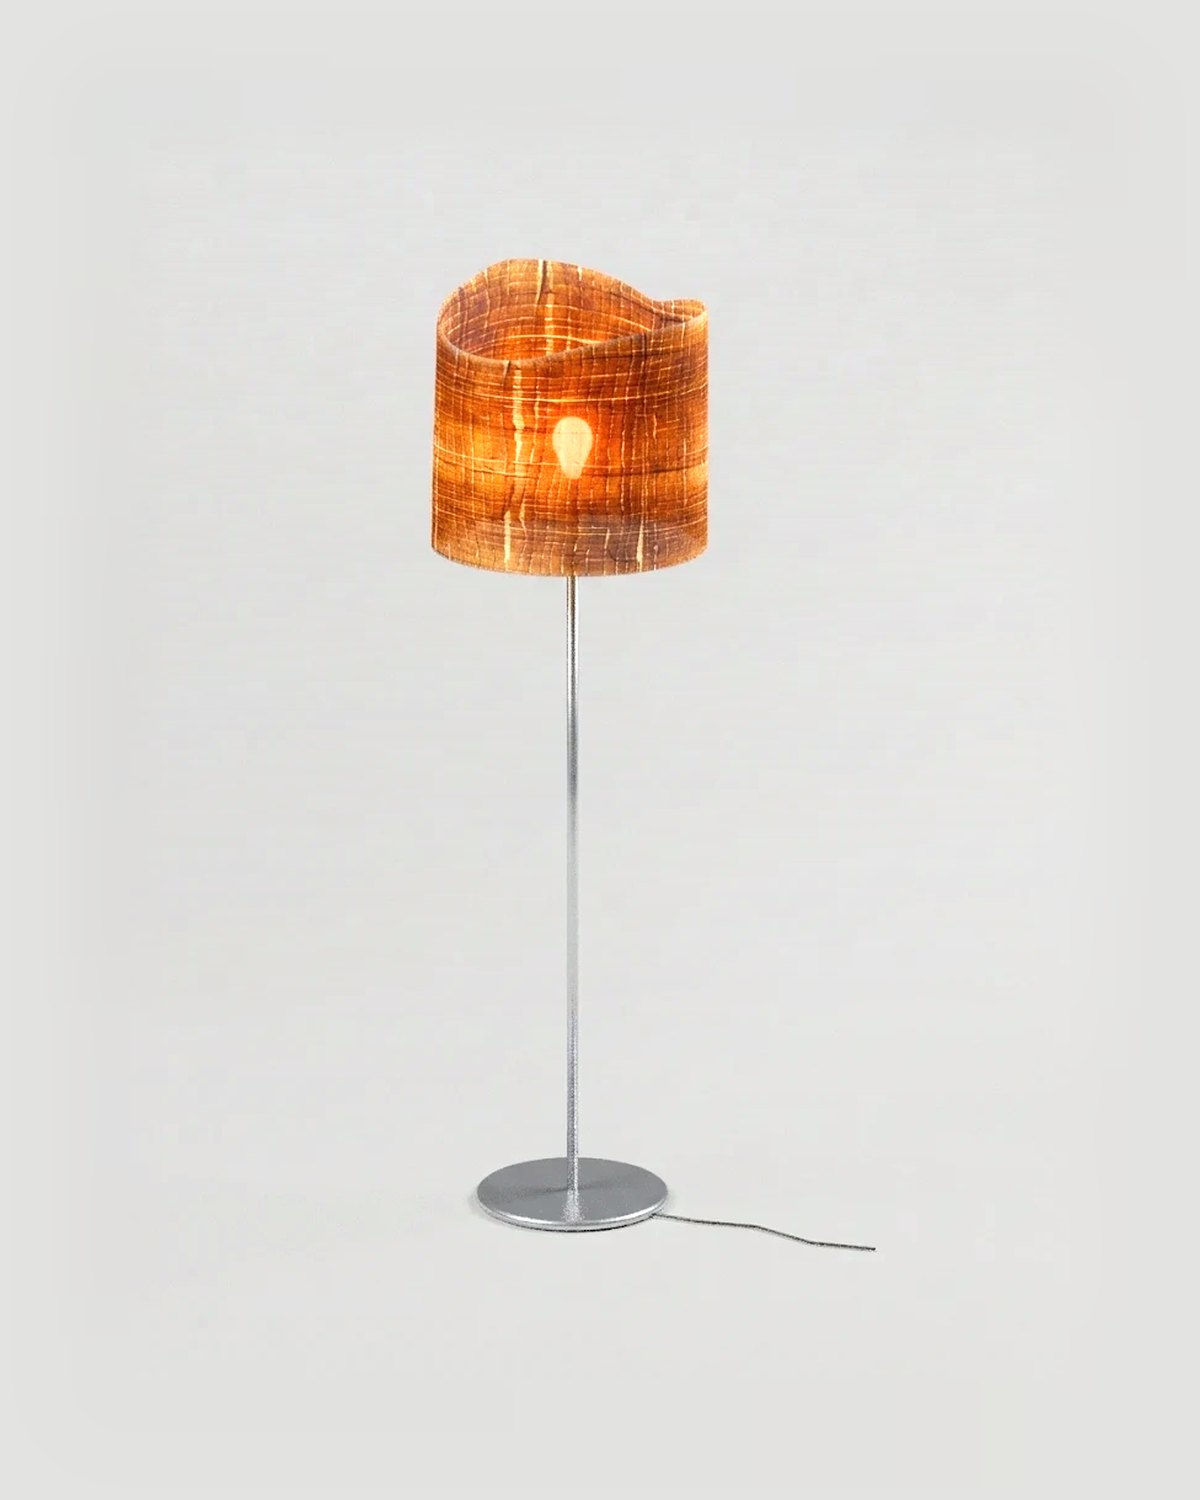
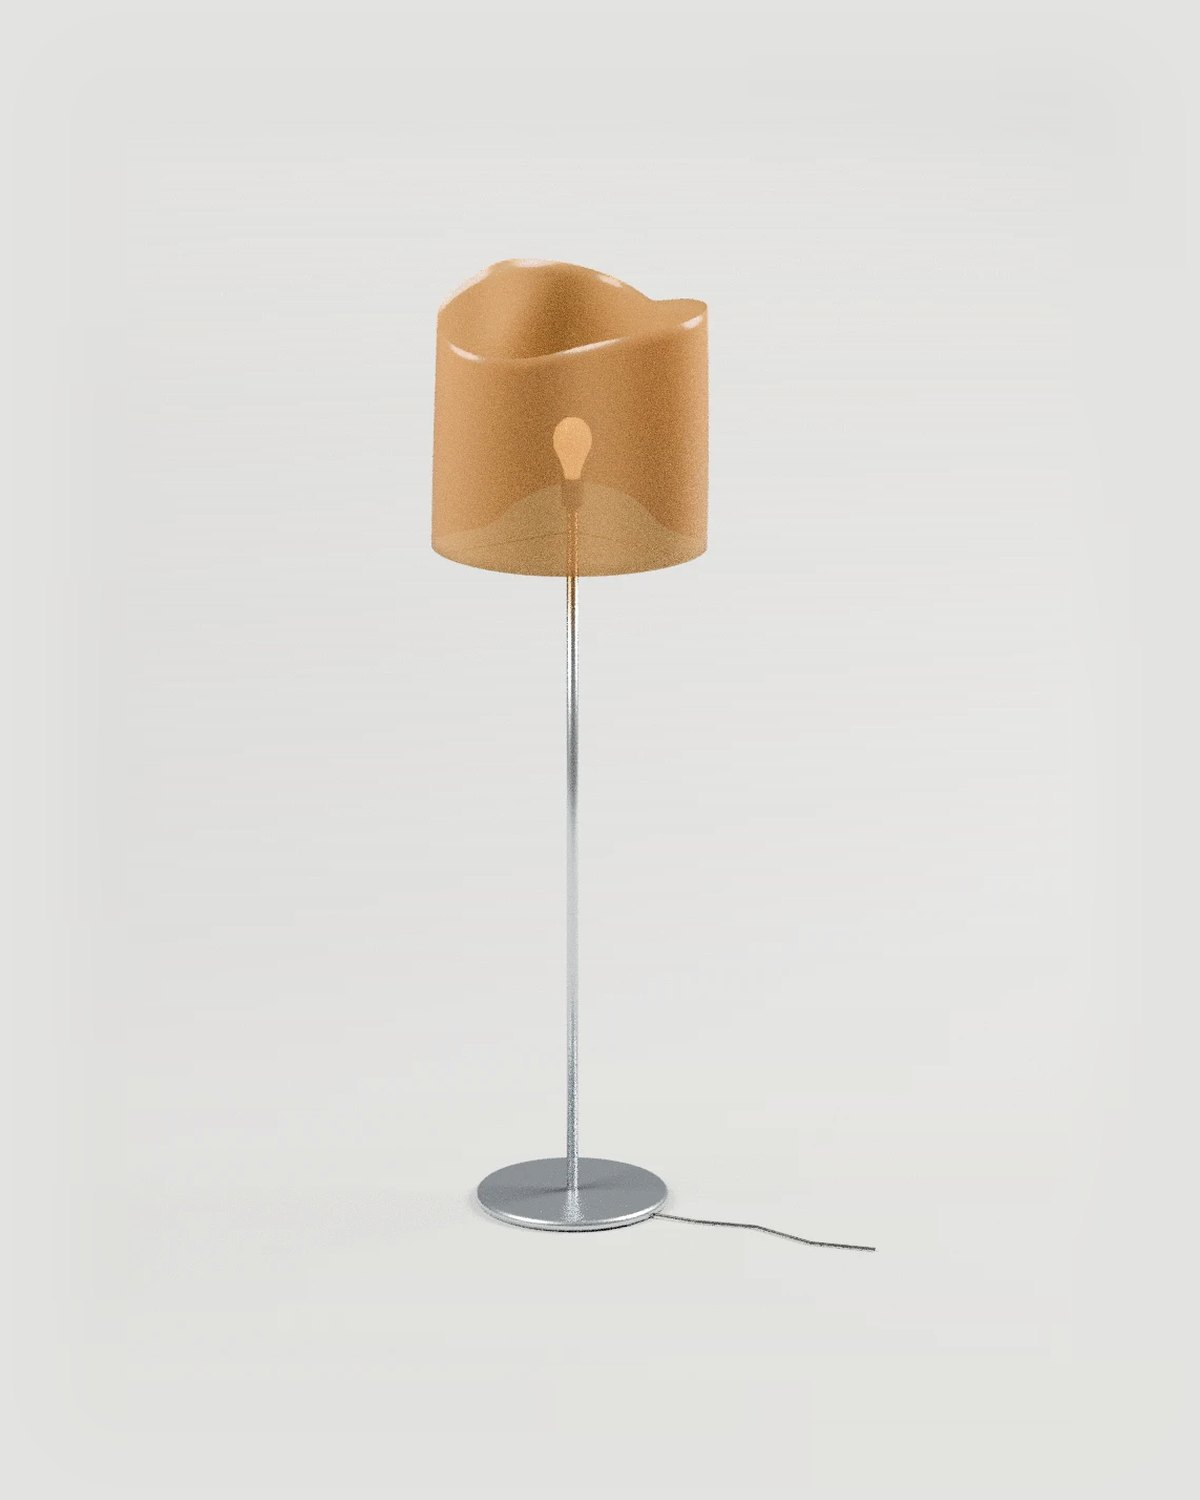
家具INDEX: フロアランプ（Lighting 03）の写真を差し替え
- 新しいレンダー写真に変更
- --flatten を改良：背景に近い色の画素だけ行ごとに補正し、作品の色は保つ
  （同じ処理の Seat 04 も新しいスクリプトで再生成）

Claude-Session: https://claude.ai/code/session_01SCLy3hhKBpEsGZNSjHJ246

Changed region(s): [[0.3392, 0.1533, 0.6167, 0.3987], [0.4625, 0.7667, 0.4933, 0.828]]

diff --git a/scripts/prepare_furniture_image.py b/scripts/prepare_furniture_image.py
@@ -47,8 +47,13 @@ def flatten_rows(a: np.ndarray, strip: float = 0.12) -> np.ndarray:
     k = max(4, int(w * strip))
     side = np.concatenate([a[:, :k], a[:, -k:]], axis=1)
     bg = smooth1d(np.median(side, axis=1), max(4.0, h * 0.03))
-    gain = np.clip(CELL / np.maximum(bg, 1), 0.8, 1.7)
-    return np.clip(a * gain[:, None, :], 0, 255)
+    g_row = np.clip(CELL / np.maximum(bg, 1), 0.8, 1.7)[:, None, :]
+    # 作品の色はなるべく変えない：背景に近い色の画素だけ行ごとの補正を強く掛ける
+    g_obj = np.clip(CELL / np.median(side.reshape(-1, 3), axis=0), 0.85, 1.15)
+    dist = np.linalg.norm(a - bg[:, None, :], axis=2, keepdims=True)
+    m = np.clip(1 - (dist - 12) / 36, 0, 1)
+    gain = g_obj + (g_row - g_obj) * m
+    return np.clip(a * gain, 0, 255)
 
 
 def float_mode(
